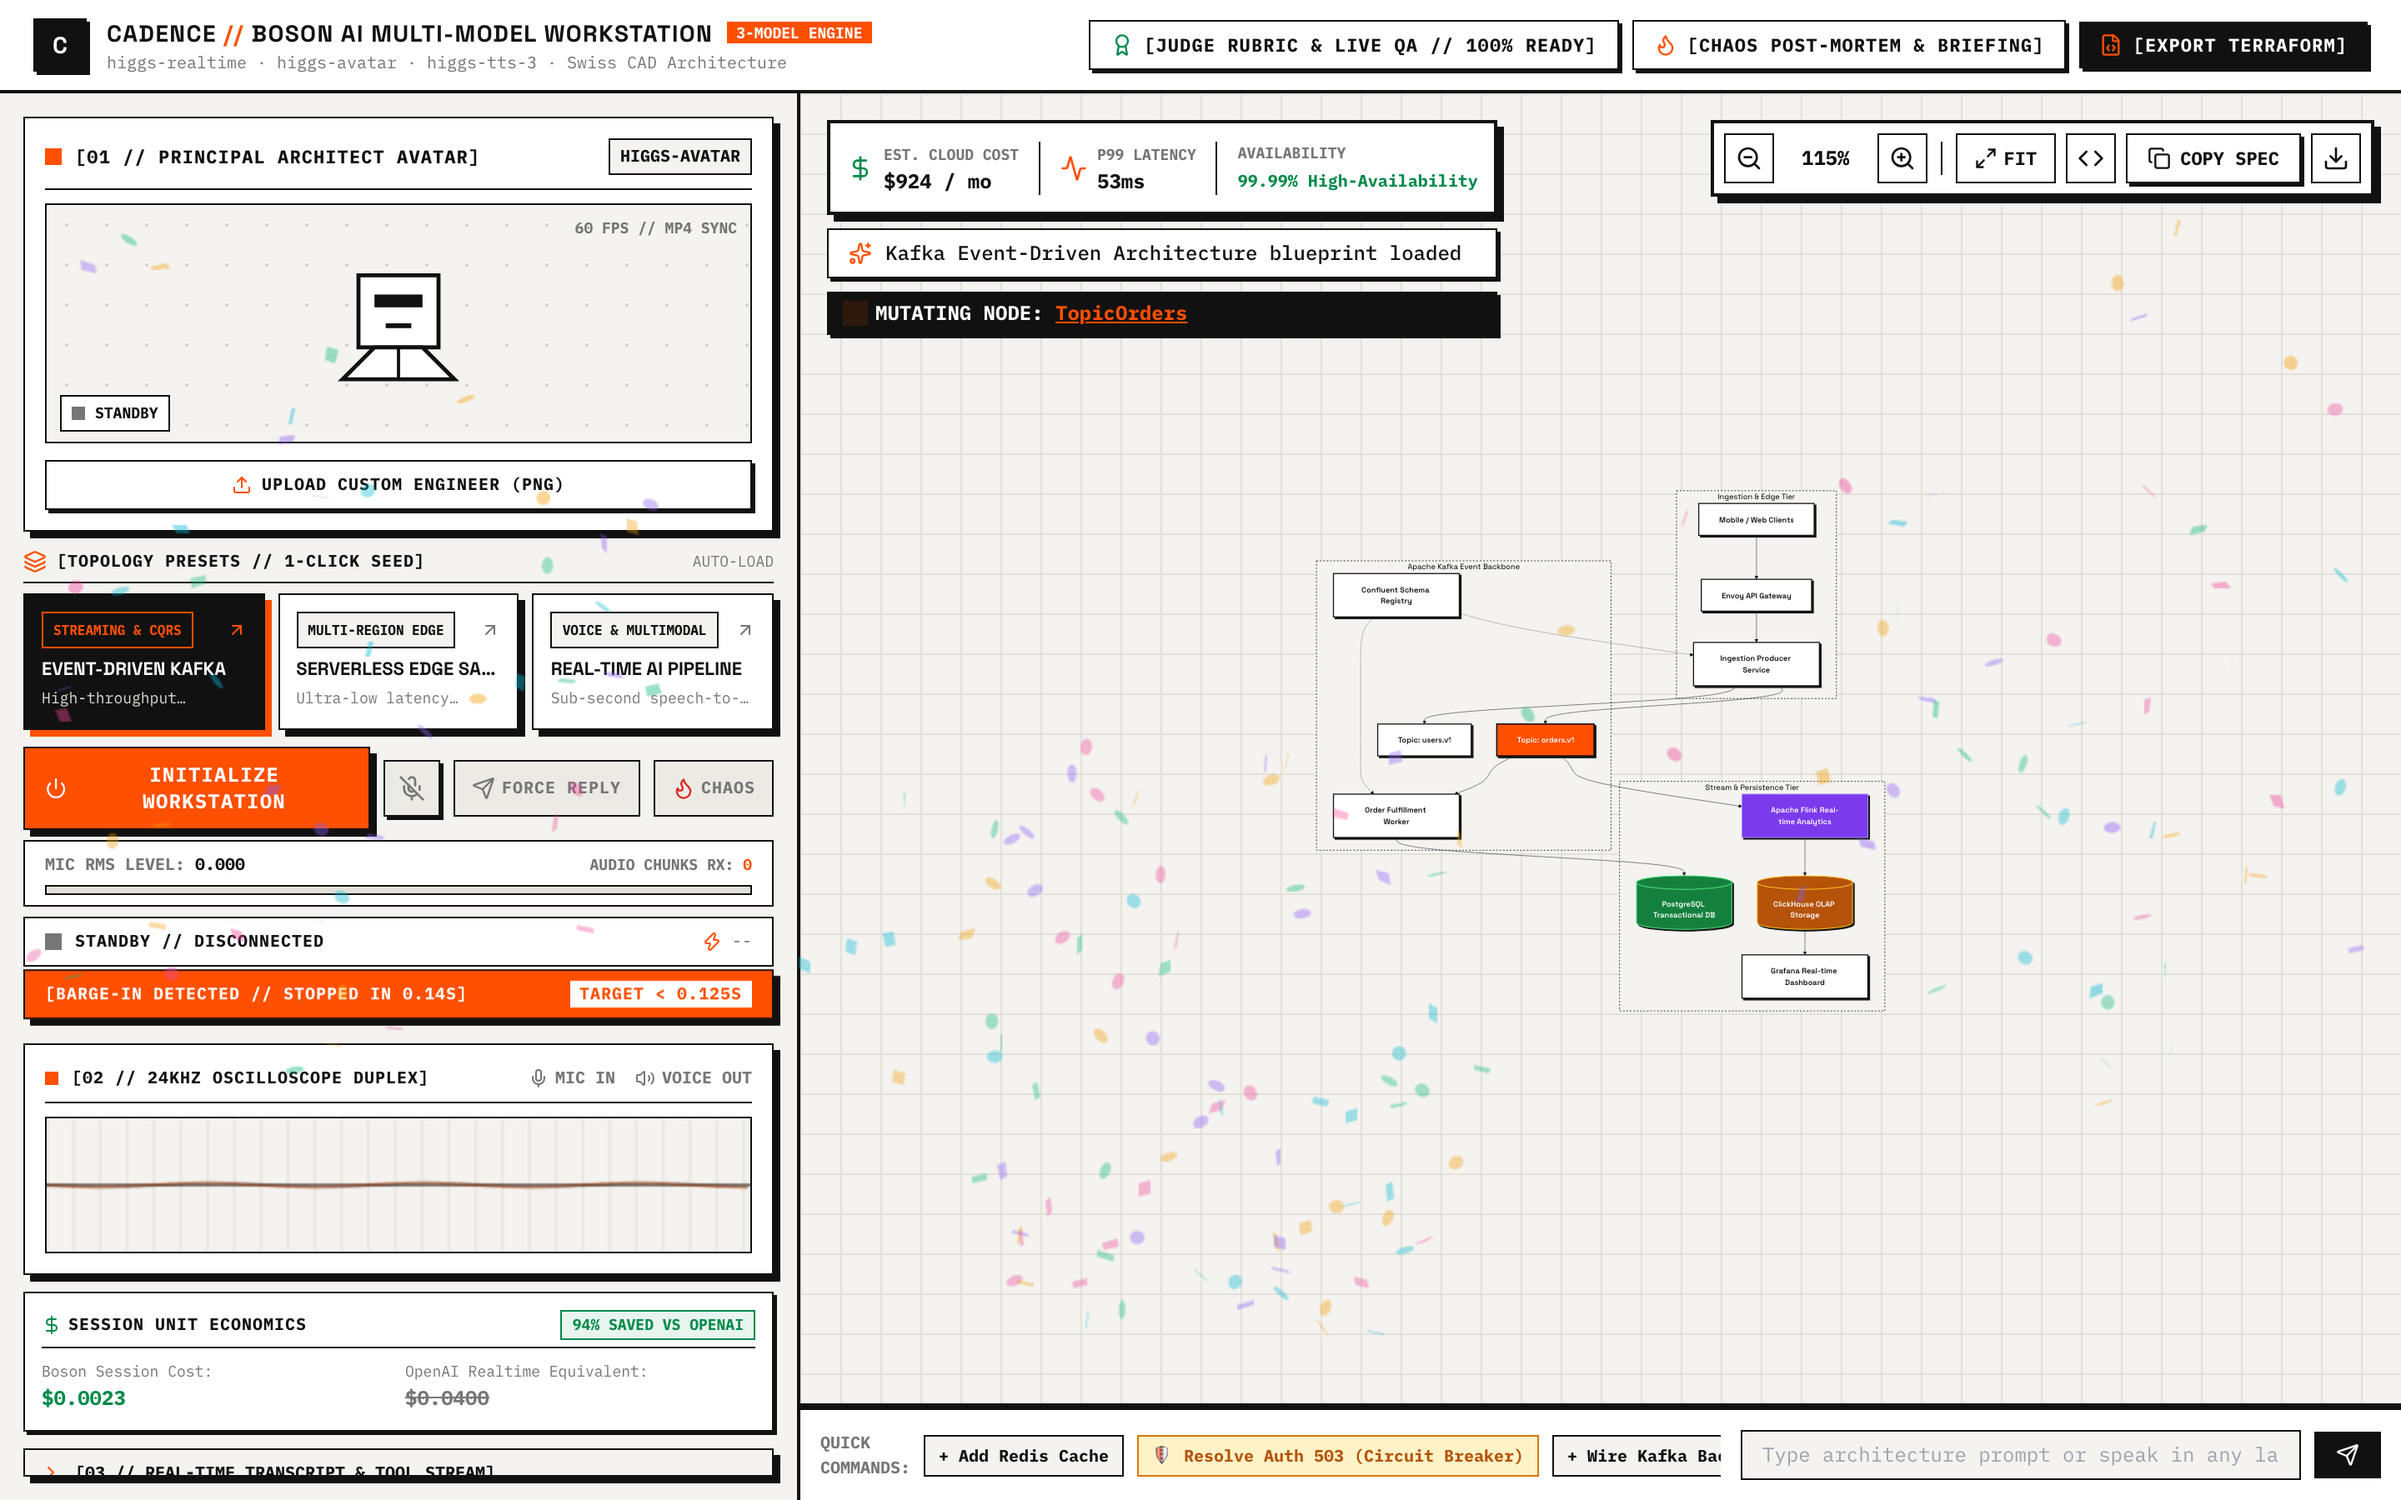
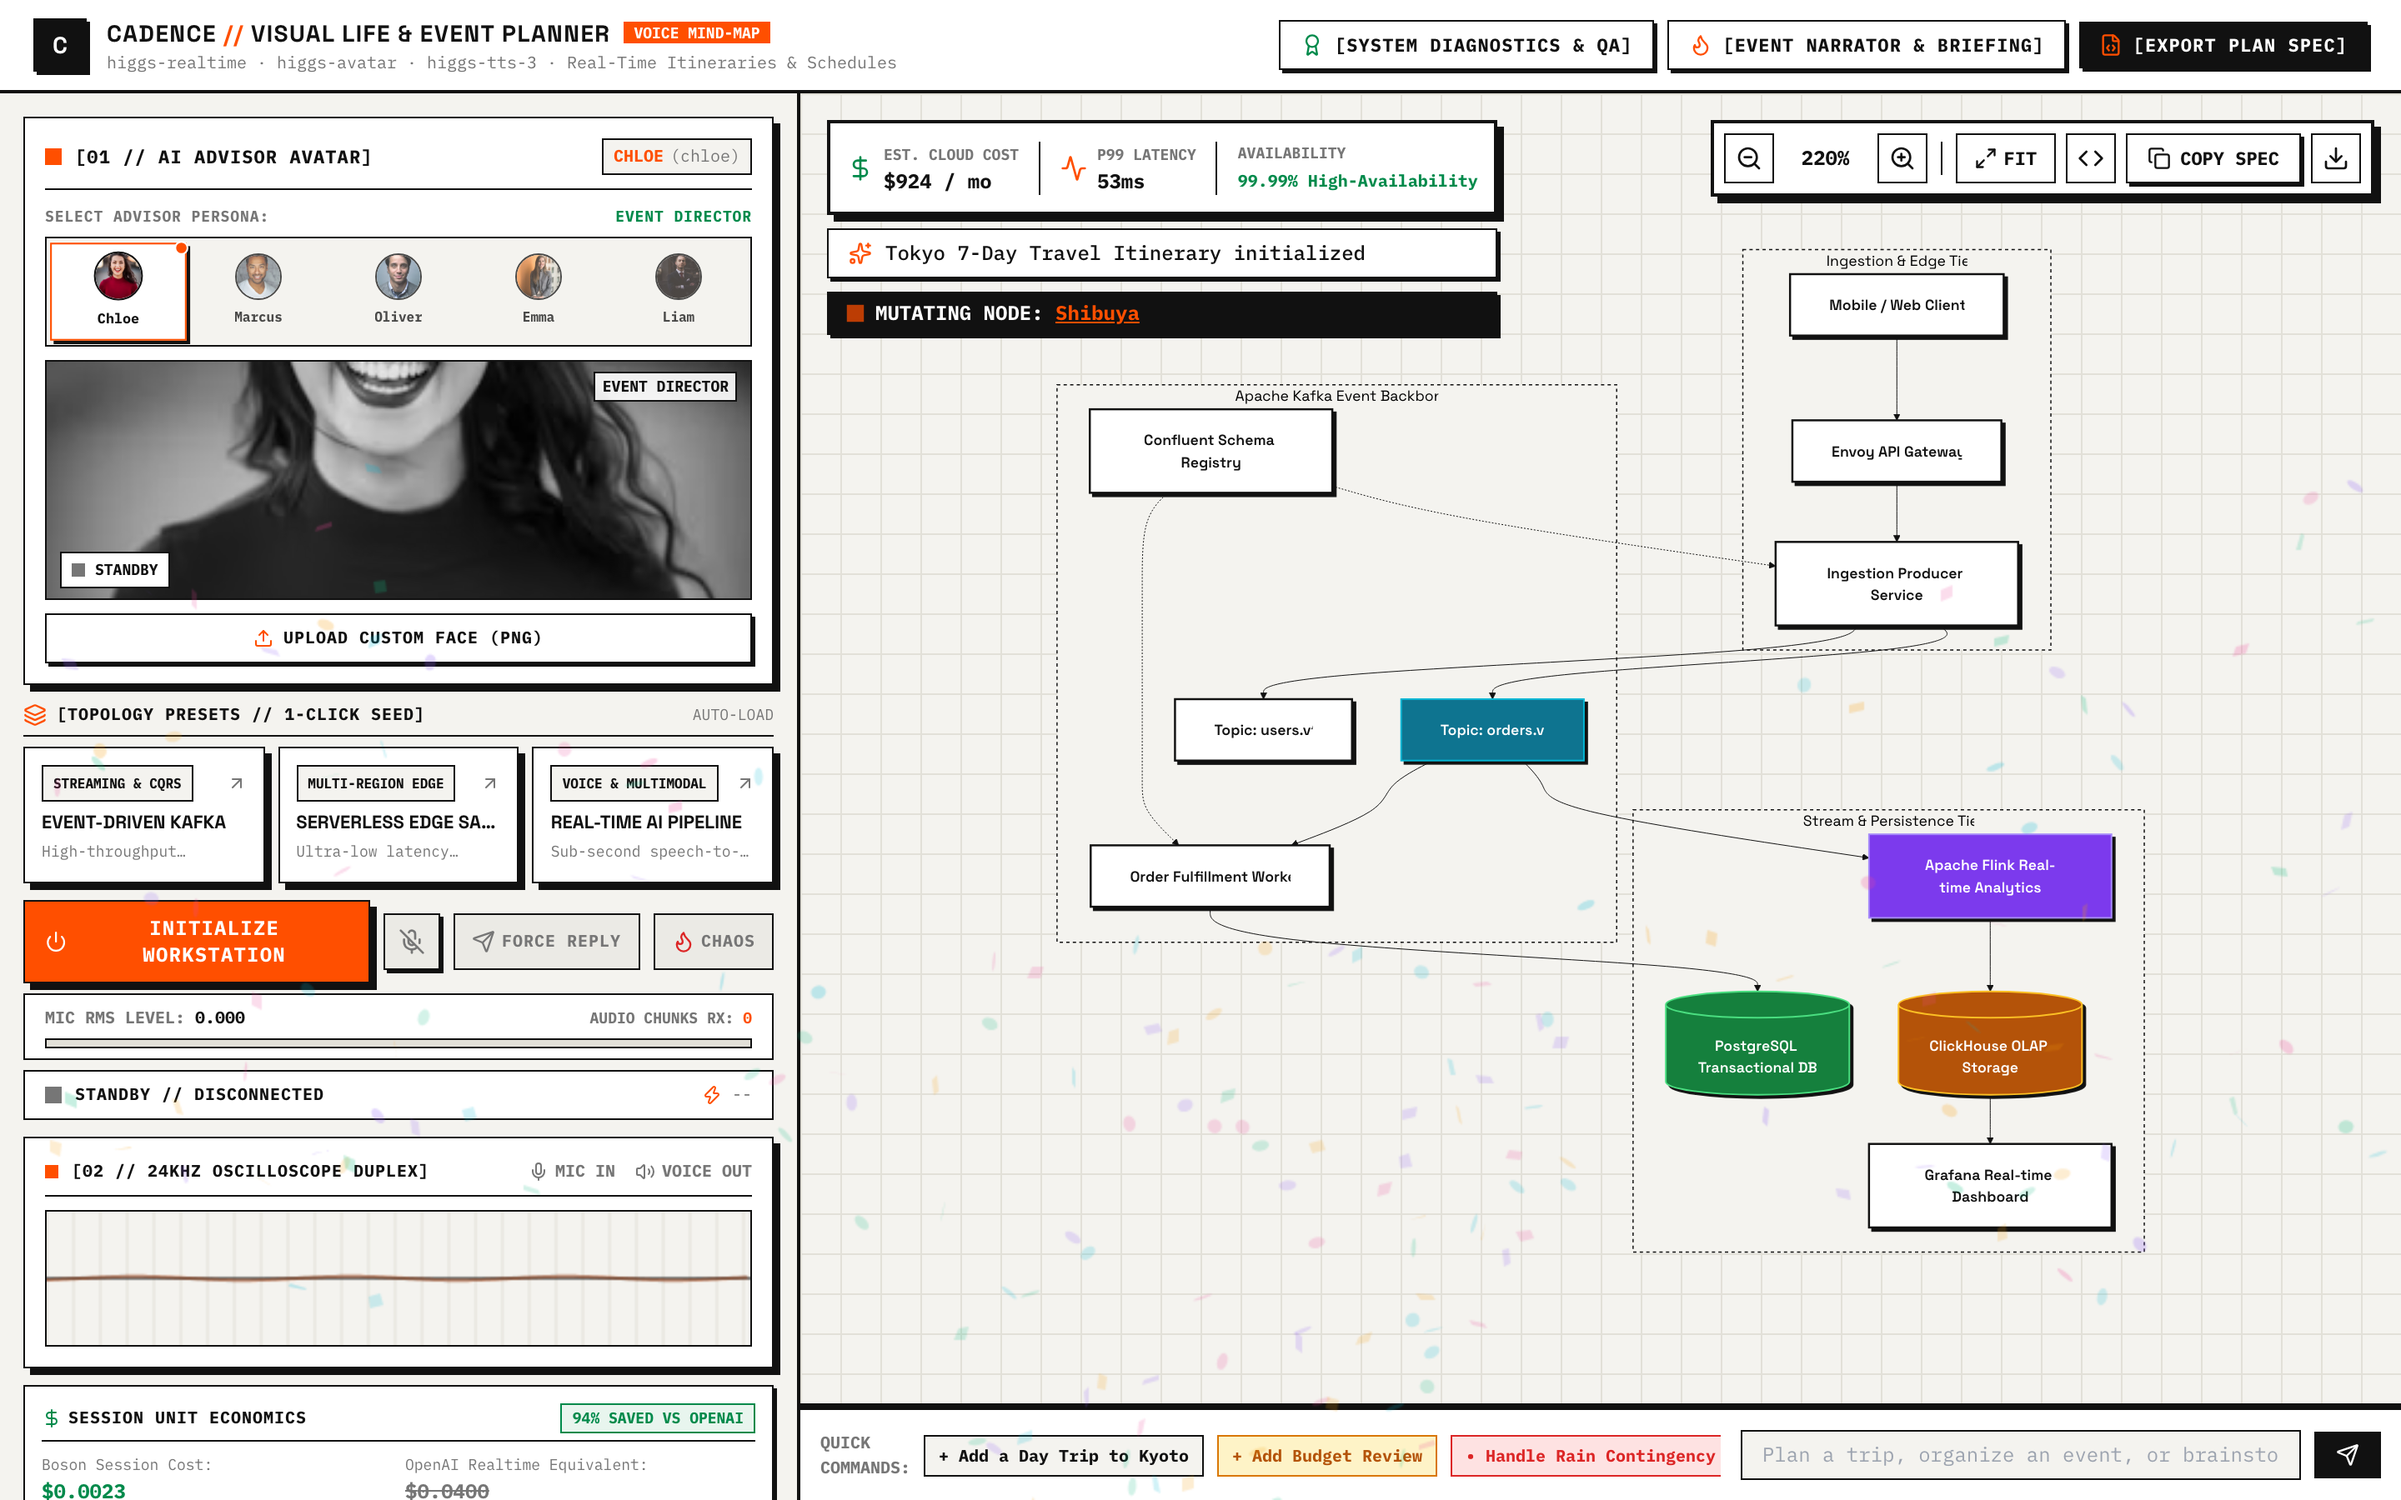
docs: update README showcase and retina screenshot for life and event planner pivot

diff --git a/README.md b/README.md
@@ -1,7 +1,7 @@
 <div align="center">
 
 # CADENCE
-### Autonomous Real-Time Voice Systems Architect
+### Autonomous Real-Time Voice Life & Event Planner
 
 [![Build & Test](https://github.com/PeterYousefi/Cadence/actions/workflows/ci.yml/badge.svg)](https://github.com/PeterYousefi/Cadence/actions)
 [![License: MIT](https://img.shields.io/badge/License-MIT-yellow.svg)](https://opensource.org/licenses/MIT)
@@ -11,7 +11,7 @@
 [![Multi-Model](https://img.shields.io/badge/Boson%20AI-Realtime%20%2B%20Avatar%20%2B%20TTS%203-008A4B.svg)](https://boson.ai)
 
 <p align="center">
-  <strong>Cadence</strong> pairs Boson AI's multi-model suite with a reactive, Swiss CAD architectural drafting canvas. Speak naturally in any language to interactively synthesize, rewire, stress-test, and export distributed cloud topologies in sub-second real time.
+  <strong>Cadence</strong> pairs Boson AI's multi-model suite with a reactive, Swiss CAD visual mind-mapping canvas. Speak naturally in any language to plan dream vacations, coordinate weddings, build startup roadmaps, or brainstorm life goals with instant visual timelines and sub-second full-duplex voice.
 </p>
 
 </div>
@@ -21,15 +21,15 @@
 ## 🖥 Workstation Overview
 
 <div align="center">
-  <img src="docs/images/cadence-workstation-main.png" alt="Cadence Systems Architect Workstation" width="100%" style="border: 2px solid #111111; box-shadow: 6px 6px 0px #111111;" />
+  <img src="docs/images/cadence-workstation-main.png" alt="Cadence Visual Life & Event Planner Workstation" width="100%" style="border: 2px solid #111111; box-shadow: 6px 6px 0px #111111;" />
 </div>
 
 <br />
 
 The Cadence workstation is engineered with a **Teenage Engineering × Swiss Industrial Drafting** aesthetic—combining warm alabaster paper tones (`#F4F3EF`), exposed 24px structural blueprint grids (`#E2E0D8`), international signal accents (`#FF4F00` and `#008A4B`), and mechanical tactile controls with physical drop-shadows:
 
-* **Left 35% // Telemetry Rail:** Houses the Principal Architect Avatar viewport, dual 24kHz mic/speaker oscilloscopes, live numeric microphone RMS meter, 0.125s barge-in timeline beacon, real-time Boson vs. OpenAI unit economics ticker, and the syntax-highlighted live transcript and tool stream.
-* **Right 65% // Architect Canvas:** Full-height, reactive vector CAD viewport rendering dark-themed, high-contrast Mermaid.js topologies with smooth pan/zoom controls, live cloud cost ($/mo) & P99 latency HUDs, one-click failure injection, and a direct text/voice command bar.
+* **Left 35% // Telemetry Rail:** Houses the 5-Avatar Persona Selector (Chloe, Marcus, Oliver, Emma, Liam) with live talking-head video viewport, dual 24kHz mic/speaker oscilloscopes, live numeric microphone RMS meter, 0.125s barge-in timeline beacon, real-time Boson vs. OpenAI unit economics ticker, and the syntax-highlighted live transcript and tool stream.
+* **Right 65% // Visual Mind-Map Canvas:** Full-height, reactive vector CAD viewport pre-calibrated to a **220% default zoom** scale focused on central milestones, rendering vibrant pastel flowchart mind-maps with smooth pan/zoom controls, contingency simulations, and a direct text/voice command bar.
 
 ---
 
